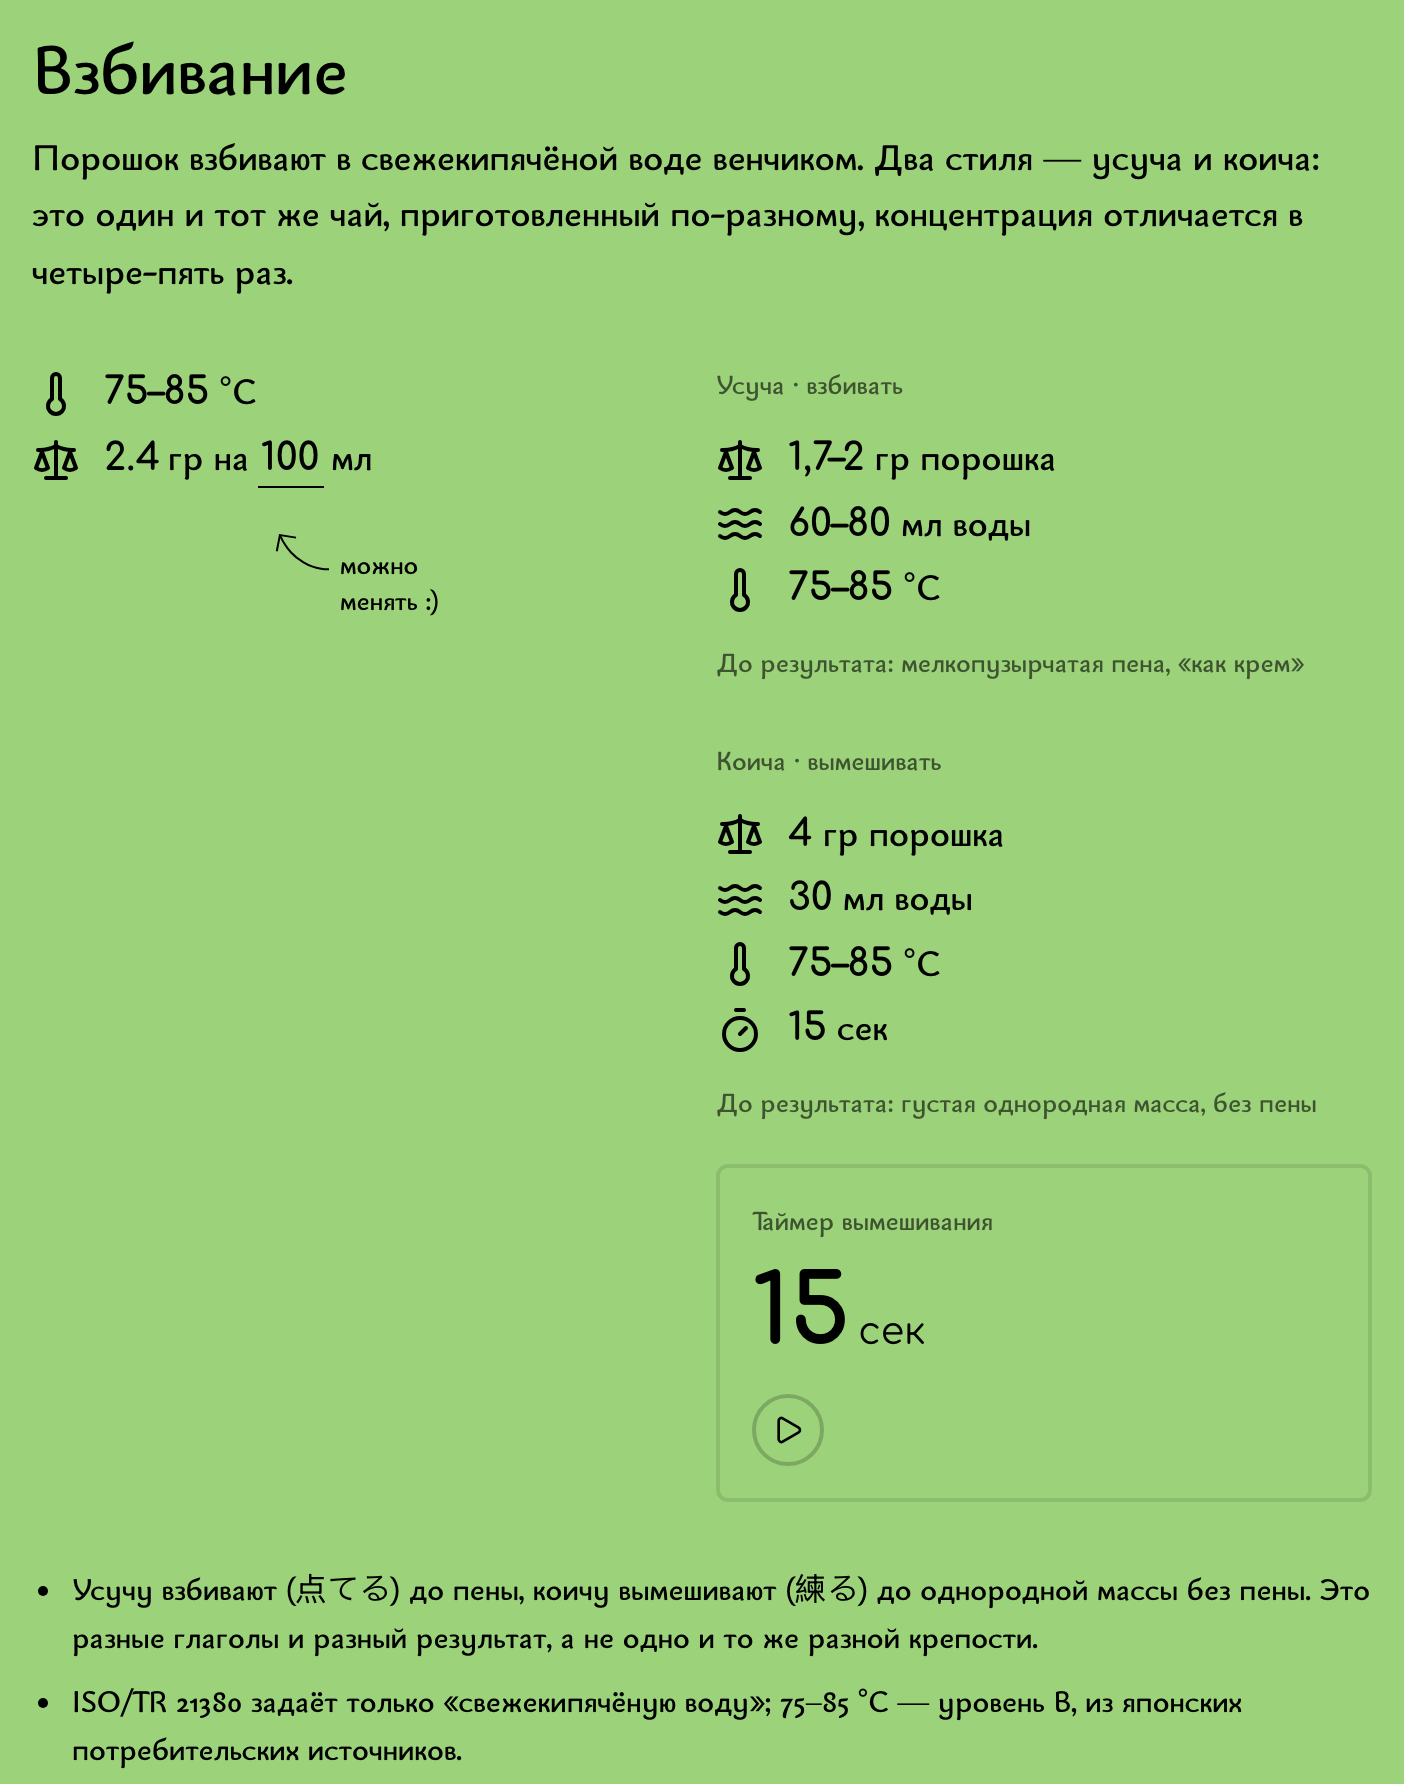
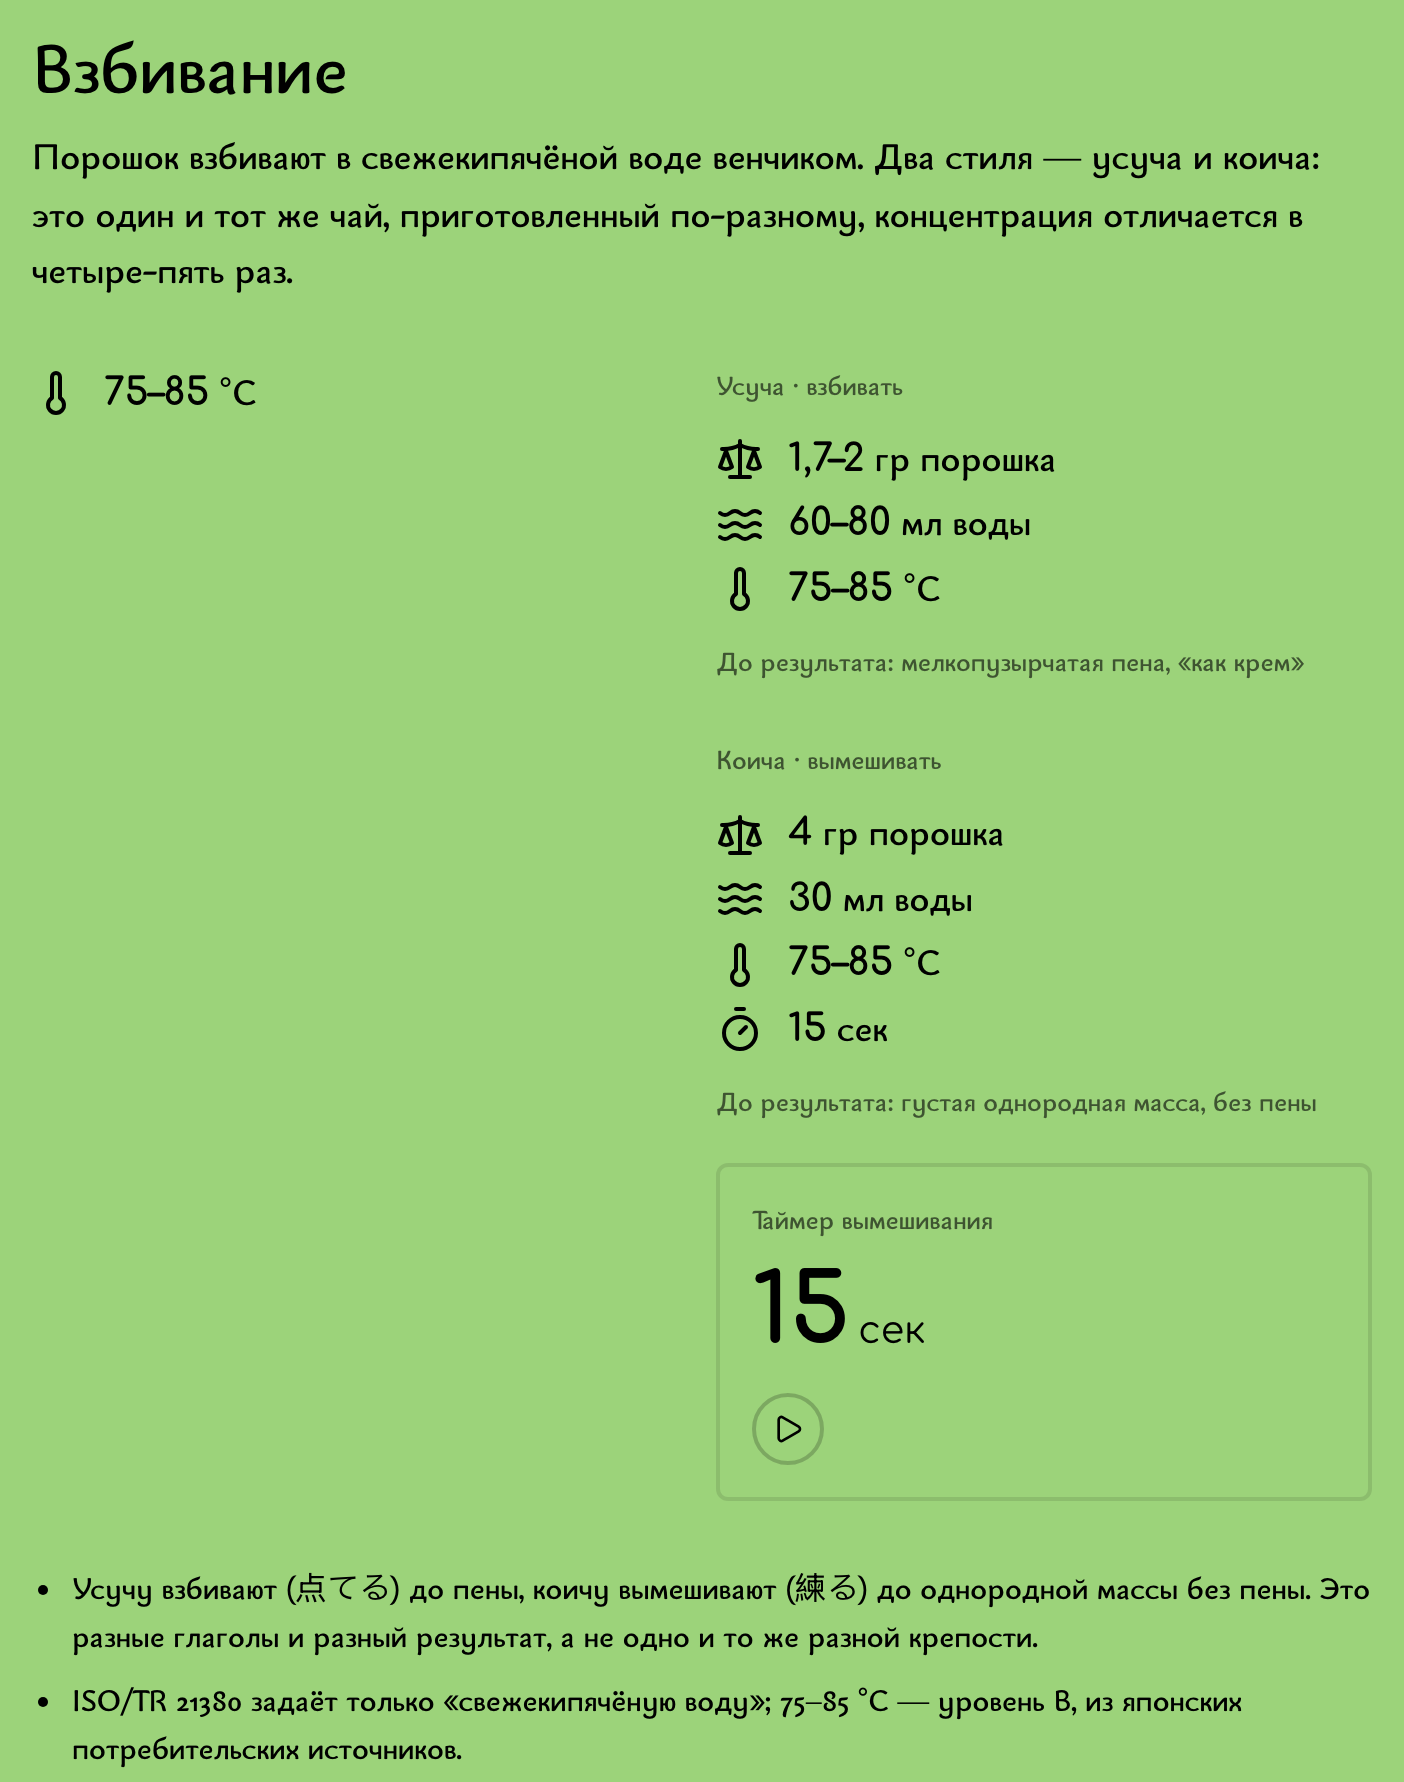
feat(brew): у взбивания не показывать навеску в левой колонке
У матчи навесок две, и они расходятся в пять раз: 2,4 г на 100 мл у усучи
против 13,3 у коичи. Слева показывалась одна — навеска способа, то есть
нижняя граница усучи, — и рядом с панелью, где обе выписаны полностью,
она читалась как противоречие.

Теперь у способов со взбиванием слева остаётся только температура,
а навеска живёт в панели, где у неё есть стиль и объём воды.

Подсказка «можно менять :)» указывает на поле объёма внутри навески,
поэтому держится вместе с ней и у взбивания тоже не выводится.
У способов с проливами всё прежнее: и навеска, и подсказка на месте.

diff --git a/app/components/BrewInfo.tsx b/app/components/BrewInfo.tsx
@@ -8,11 +8,10 @@ import ArrowHint from "./ArrowHint";
 type Props = {
   temperature: number | [number, number];
   /**
-   * Навески может не быть: у взбивания (матча) её нет ни одной верной —
-   * 2,4 г/100 мл у усучи против 13,3 у коичи.
-   *
-   * То же самое justea-design делает в PR #27; здесь это повторено, иначе
-   * ветка не собирается. При мерже достаточно любой из двух версий.
+   * Навеска. У взбивания её не передают: у матчи навесок две, и они
+   * расходятся в пять раз (2,4 г/100 мл у усучи против 13,3 у коичи).
+   * Одно число рядом с панелью взбивания читалось бы как противоречие,
+   * а в самой панели обе навески показаны полностью.
    */
   ratio?: number;
 };
@@ -21,15 +20,21 @@ export default function BrewInfo({ temperature, ratio }: Props) {
   return (
     <div className="flex flex-1 flex-col gap-1">
       <BrewTemperature temperature={temperature} />
-      {ratio !== undefined && <BrewRatio ratio={ratio} />}
-      <div className="relative mb-6 hidden h-[60px] sm:block">
-        <ArrowHint className="absolute left-[121px] top-[19px]" position="bottom">
-          <div className="text-[14px] leading-[18px] whitespace-nowrap select-none">
-            можно <br />
-            менять :)
+      {ratio !== undefined && (
+        <>
+          <BrewRatio ratio={ratio} />
+          {/* Подсказка указывает на поле объёма внутри навески, поэтому
+              держится вместе с ней. */}
+          <div className="relative mb-6 hidden h-[60px] sm:block">
+            <ArrowHint className="absolute left-[121px] top-[19px]" position="bottom">
+              <div className="text-[14px] leading-[18px] whitespace-nowrap select-none">
+                можно <br />
+                менять :)
+              </div>
+            </ArrowHint>
           </div>
-        </ArrowHint>
-      </div>
+        </>
+      )}
     </div>
   );
 }

diff --git a/app/components/TeaBrewSection.tsx b/app/components/TeaBrewSection.tsx
@@ -58,6 +58,8 @@ export default function TeaBrewSection({ brewMethods, defaultMethodId }: Props) 
     const [activeSteepIndex, setActiveSteepIndex] = useState<number | null>(null);
     const steeps = getSteepsFromMethod(activeMethod);
     const rinseNote = formatRinse(activeMethod);
+    const whisked = activeMethod.whisked ?? [];
+    const isWhisked = steeps.length === 0 && whisked.length > 0;
 
     useEffect(() => {
         setActiveSteepIndex(null);
@@ -81,9 +83,15 @@ export default function TeaBrewSection({ brewMethods, defaultMethodId }: Props) 
             <p className="mb-6 text-[17px] sm:mb-8 sm:text-[19px]">{activeMethod.description}</p>
 
             <div className="flex min-w-0 flex-col gap-4 md:flex-row md:gap-[14px]">
+                {/*
+                    Навеску слева показываем только у способов с проливами.
+                    У взбивания их две — 2,4 г/100 мл у усучи против 13,3
+                    у коичи, — и одно число рядом с панелью читалось бы как
+                    противоречие. Обе навески целиком есть в самой панели.
+                */}
                 <BrewInfo
                     temperature={getTemperature(activeMethod)}
-                    ratio={activeMethod.ratio}
+                    ratio={isWhisked ? undefined : activeMethod.ratio}
                 />
                 {/*
                     Справа — таблица проливов либо панель взбивания: у матчи
@@ -98,8 +106,8 @@ export default function TeaBrewSection({ brewMethods, defaultMethodId }: Props) 
                             onActiveIndexChange={setActiveSteepIndex}
                         />
                     </div>
-                ) : activeMethod.whisked && activeMethod.whisked.length > 0 ? (
-                    <WhiskedTable whisked={activeMethod.whisked} />
+                ) : isWhisked ? (
+                    <WhiskedTable whisked={whisked} />
                 ) : null}
             </div>
 

diff --git a/docs/design/audit/whisked-panel/README.md b/docs/design/audit/whisked-panel/README.md
@@ -22,3 +22,10 @@
 Таймер стоит только у коичи: её вымешивают заданные 15 секунд. У усучи
 длительности в данных нет — её взбивают до результата, и таймер там был бы
 выдумкой.
+
+Слева у взбивания осталась одна температура. Навеску там не показываем:
+у матчи их две и они расходятся в пять раз — 2,4 г на 100 мл у усучи против
+13,3 у коичи, — и одно число рядом с панелью читалось бы как противоречие.
+Обе навески целиком есть в самой панели. Подсказка «можно менять :)» указывает
+на поле объёма внутри навески, поэтому ушла вместе с ней; у способов
+с проливами и навеска, и подсказка на месте.
